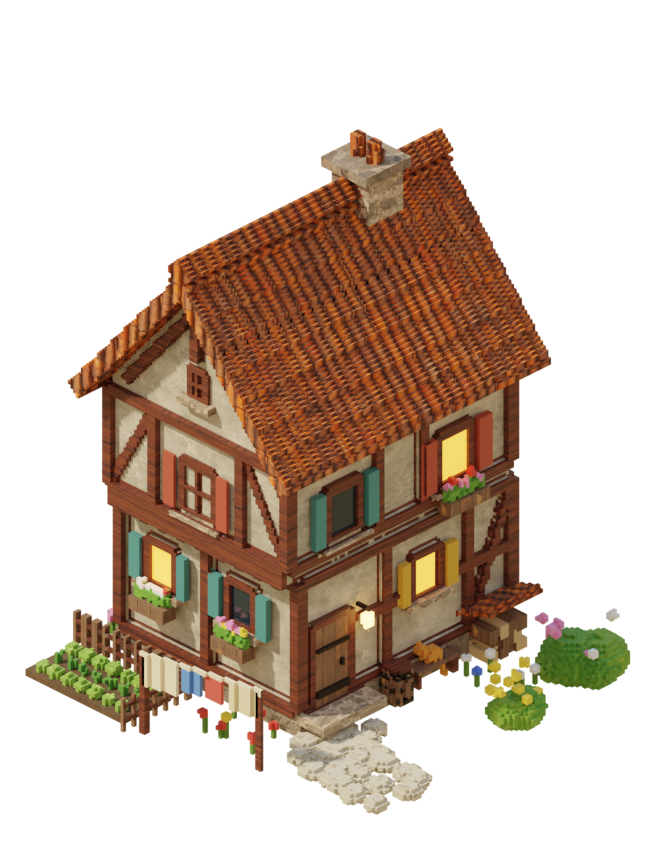
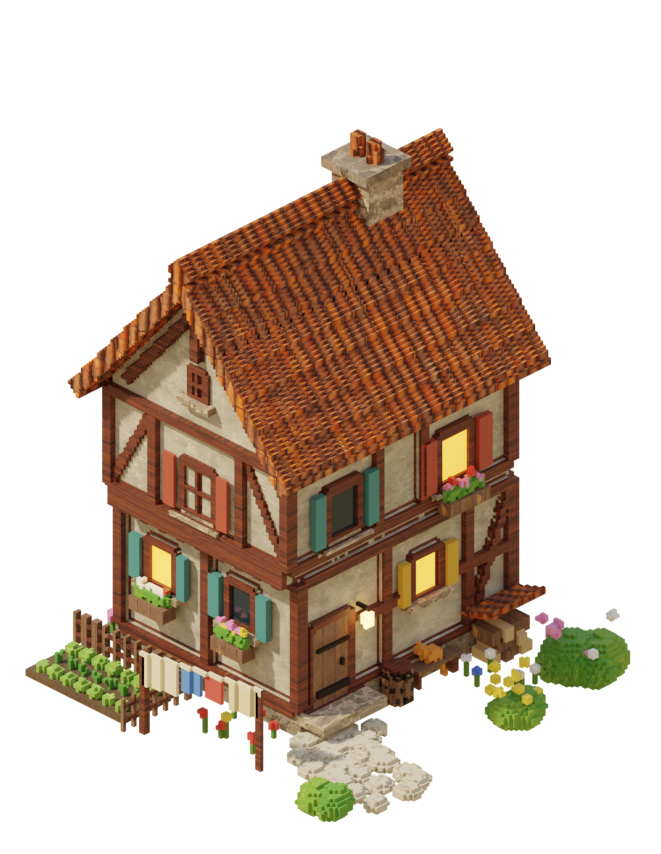
Model footprint wins over the DB; props unclipped; stronger motion
- BuildingDef.fromDefRow takes a rebuilt building's footprint from its
  model (kModelFootprint), not from the row: the live Small House row was
  still 3x3, which stretched the picture and — through the footprint guard —
  switched off its entrance marker and its animations. The migrations stay
  so the table itself is right too.
- tool/blender/audit.py: labels every part by the helper that made it and
  lists props standing in the house or in each other. Fixed: Small House
  bush in the back corner, woodpile in the plinth; Hatchery barrel in the
  east wall, four bushes in house/tower, a flower patch UNDER the house,
  hay bale in the tower plinth, sack on an egg, crate in an egg, two hens
  standing in nests, overlapping big eggs. Four-direction review renders
  checked: timber, windows and gables on every side.
- Motion strong enough to read at map size: washing 0.16 -> 0.50 shear,
  flowers/flower boxes 0.25, bushes 0.06, hens, sign and awning edge up.

Verified on the map: Small House is 2x2 with its entrance marker and road
cell; washing, flowers, hens and lights visibly move.

Changed region(s): [[0.6959, 0.6698, 0.8472, 0.7916], [0.4236, 0.9133, 0.5446, 0.9742]]

diff --git a/lib/features/settlement/data/building_model.dart b/lib/features/settlement/data/building_model.dart
@@ -124,16 +124,16 @@ bool _modelFits(String id, int w, int h) {
 
 /// The footprint (grid w, h) each model was rendered for.
 const Map<String, (int, int)> kModelFootprint = {
-  'hatchery': (4, 3),
   'small_house': (2, 2),
+  'hatchery': (4, 3),
 };
 
 const Map<String, BuildingEntrance> kBuildingEntrance = {
-  'hatchery': (2, 2, 0, 1),
   'small_house': (1, 1, 1, 0),
+  'hatchery': (2, 2, 0, 1),
 };
 
 const Map<String, BuildingAnimSpec> kBuildingAnim = {
-  'hatchery': BuildingAnimSpec(1.20837, true, [BuildingAnimLayer(AnimKind.sway, 0, 0, 41, 33, 0.40837, 0.58795, 0.04435, 0.02909, 0.42992, 0.60743, 0.1, 3.1, 2.78), BuildingAnimLayer(AnimKind.sway, 0, 35, 38, 34, 0.83682, 0.77147, 0.04017, 0.03047, 0.85562, 0.79175, 0.1, 3.1, 1.98), BuildingAnimLayer(AnimKind.sway, 0, 71, 35, 28, 0.41925, 0.80679, 0.03766, 0.02493, 0.43795, 0.823, 0.1, 3.1, 2.27), BuildingAnimLayer(AnimKind.sway, 0, 101, 34, 33, 0.68201, 0.8144, 0.03598, 0.02909, 0.70033, 0.83407, 0.1, 3.1, 1.65), BuildingAnimLayer(AnimKind.sway, 0, 136, 45, 38, 0.19833, 0.72922, 0.04854, 0.03324, 0.22376, 0.75776, 0.22, 1.5, 2), BuildingAnimLayer(AnimKind.sway, 0, 176, 23, 35, 0.20084, 0.75208, 0.02427, 0.03116, 0.21038, 0.78546, 0.22, 1.85, 2.04), BuildingAnimLayer(AnimKind.sway, 0, 213, 21, 41, 0.21172, 0.69529, 0.02259, 0.03601, 0.2251, 0.72951, 0.22, 2.2, 2.08), BuildingAnimLayer(AnimKind.sway, 0, 256, 44, 45, 0.06109, 0.71814, 0.04686, 0.04017, 0.08053, 0.74502, 0.12, 3.4, 4.2), BuildingAnimLayer(AnimKind.sway, 0, 303, 49, 47, 0.26276, 0.81856, 0.05272, 0.04155, 0.29739, 0.84362, 0.12, 3.4, 4.7), BuildingAnimLayer(AnimKind.sway, 0, 352, 25, 45, 0.61757, 0.90582, 0.02678, 0.04017, 0.616, 0.93335, 0.12, 3.4, 3.66), BuildingAnimLayer(AnimKind.sway, 0, 399, 48, 49, 0.09874, 0.74723, 0.05105, 0.04294, 0.12738, 0.77548, 0.12, 3.4, 3.48), BuildingAnimLayer(AnimKind.sway, 0, 450, 34, 50, 0.38828, 0.74723, 0.03598, 0.04432, 0.40582, 0.74853, 0.07, 3, 4.46), BuildingAnimLayer(AnimKind.bob, 0, 502, 68, 41, 0.29121, 0.7133, 0.0728, 0.03601, 0.31479, 0.74891, 0.008, 3.6, 0.62), BuildingAnimLayer(AnimKind.bob, 0, 545, 85, 67, 0.27364, 0.72022, 0.09038, 0.05956, 0.31479, 0.74891, 0.008, 4.9, 0.68), BuildingAnimLayer(AnimKind.sway, 0, 614, 87, 73, 0.83682, 0.78532, 0.09289, 0.0644, 0.87436, 0.83531, 0.035, 4.4, 1.67), BuildingAnimLayer(AnimKind.sway, 0, 689, 27, 35, 0.26946, 0.6205, 0.02845, 0.03116, 0.28802, 0.6647, 0.035, 4.4, 6.22), BuildingAnimLayer(AnimKind.sway, 0, 726, 80, 46, 0.33138, 0.67659, 0.08536, 0.04086, 0.39043, 0.70048, 0.1, 2.1, 4.87), BuildingAnimLayer(AnimKind.glow, 0, 774, 497, 340, 0.34142, 0.55263, 0.53138, 0.30055, 0.5, 0.5, 0.45, 6, 4.52), BuildingAnimLayer(AnimKind.flicker, 0, 1116, 74, 49, 0.45439, 0.80402, 0.0795, 0.04363, 0.5, 0.5, 0.7, 1, 4.49), BuildingAnimLayer(AnimKind.glow, 0, 1167, 50, 59, 0.2887, 0.74377, 0.05356, 0.05194, 0.5, 0.5, 0.6, 3.2, 1.2)]),
-  'small_house': BuildingAnimSpec(1.29198, true, [BuildingAnimLayer(AnimKind.sway, 0, 0, 37, 31, 0.19667, 0.67096, 0.0711, 0.04567, 0.2311, 0.7019, 0.1, 3.1, 2.76), BuildingAnimLayer(AnimKind.sway, 0, 33, 35, 33, 0.31619, 0.71663, 0.06808, 0.04918, 0.35209, 0.74872, 0.1, 3.1, 2.06), BuildingAnimLayer(AnimKind.sway, 0, 68, 39, 36, 0.66415, 0.53981, 0.07564, 0.05386, 0.70053, 0.57555, 0.1, 3.1, 6.11), BuildingAnimLayer(AnimKind.sway, 0, 106, 14, 22, 0.65658, 0.76347, 0.02723, 0.03279, 0.66454, 0.7682, 0.35, 1.9, 0.14), BuildingAnimLayer(AnimKind.sway, 0, 130, 70, 44, 0.29198, 0.82319, 0.13616, 0.06557, 0.36903, 0.85887, 0.12, 3.4, 3.68), BuildingAnimLayer(AnimKind.sway, 0, 176, 68, 38, 0.69138, 0.7541, 0.13162, 0.05621, 0.76586, 0.79894, 0.12, 3.4, 3.77), BuildingAnimLayer(AnimKind.sway, 0, 216, 15, 27, 0.15582, 0.70726, 0.02874, 0.03981, 0.19481, 0.73152, 0.12, 3.4, 3.8), BuildingAnimLayer(AnimKind.sway, 0, 245, 81, 70, 0.80333, 0.70726, 0.15582, 0.10539, 0.87233, 0.79145, 0.035, 4.4, 1.55), BuildingAnimLayer(AnimKind.sway, 0, 317, 56, 64, 0.72769, 0.76464, 0.10741, 0.09602, 0.77554, 0.84389, 0.035, 4.4, 0.63), BuildingAnimLayer(AnimKind.sway, 0, 383, 34, 37, 0.2118, 0.76581, 0.06505, 0.05504, 0.24448, 0.77314, 0.16, 2.4, 1.69), BuildingAnimLayer(AnimKind.sway, 0, 422, 23, 29, 0.26778, 0.77752, 0.04539, 0.04333, 0.29052, 0.78461, 0.16, 2.4, 0.5), BuildingAnimLayer(AnimKind.sway, 0, 453, 21, 29, 0.30408, 0.78689, 0.04085, 0.04333, 0.32505, 0.79321, 0.16, 2.4, 2.42), BuildingAnimLayer(AnimKind.sway, 0, 484, 27, 32, 0.34039, 0.79625, 0.05144, 0.04801, 0.36821, 0.80396, 0.16, 2.4, 1.14), BuildingAnimLayer(AnimKind.glow, 0, 518, 253, 135, 0.2239, 0.49883, 0.48865, 0.20141, 0.5, 0.5, 0.45, 6, 4.52), BuildingAnimLayer(AnimKind.flicker, 0, 655, 17, 20, 0.53858, 0.71077, 0.03328, 0.03044, 0.5, 0.5, 0.7, 1, 4.49)]),
+  'small_house': BuildingAnimSpec(1.29198, true, [BuildingAnimLayer(AnimKind.sway, 0, 0, 37, 31, 0.19667, 0.67096, 0.0711, 0.04567, 0.2311, 0.7019, 0.25, 3.1, 2.76), BuildingAnimLayer(AnimKind.sway, 0, 33, 35, 33, 0.31619, 0.71663, 0.06808, 0.04918, 0.35209, 0.74872, 0.25, 3.1, 2.06), BuildingAnimLayer(AnimKind.sway, 0, 68, 39, 36, 0.66415, 0.53981, 0.07564, 0.05386, 0.70053, 0.57555, 0.25, 3.1, 6.11), BuildingAnimLayer(AnimKind.sway, 0, 106, 14, 22, 0.65658, 0.76347, 0.02723, 0.03279, 0.66454, 0.7682, 0.6, 1.9, 0.14), BuildingAnimLayer(AnimKind.sway, 0, 130, 70, 44, 0.29198, 0.82319, 0.13616, 0.06557, 0.36903, 0.85887, 0.25, 3.4, 3.68), BuildingAnimLayer(AnimKind.sway, 0, 176, 68, 38, 0.69138, 0.7541, 0.13162, 0.05621, 0.76586, 0.79894, 0.25, 3.4, 3.77), BuildingAnimLayer(AnimKind.sway, 0, 216, 15, 27, 0.15582, 0.70726, 0.02874, 0.03981, 0.19481, 0.73152, 0.25, 3.4, 3.8), BuildingAnimLayer(AnimKind.sway, 0, 245, 81, 70, 0.80333, 0.70726, 0.15582, 0.10539, 0.87233, 0.79145, 0.06, 4.4, 1.55), BuildingAnimLayer(AnimKind.sway, 0, 317, 53, 41, 0.44024, 0.90515, 0.10287, 0.06206, 0.48518, 0.94877, 0.06, 4.4, 1.96), BuildingAnimLayer(AnimKind.sway, 0, 360, 56, 64, 0.72769, 0.76464, 0.10741, 0.09602, 0.77554, 0.84389, 0.06, 4.4, 0.63), BuildingAnimLayer(AnimKind.sway, 0, 426, 34, 37, 0.2118, 0.76581, 0.06505, 0.05504, 0.24448, 0.77314, 0.5, 2, 1.69), BuildingAnimLayer(AnimKind.sway, 0, 465, 23, 29, 0.26778, 0.77752, 0.04539, 0.04333, 0.29052, 0.78461, 0.5, 2, 0.5), BuildingAnimLayer(AnimKind.sway, 0, 496, 21, 29, 0.30408, 0.78689, 0.04085, 0.04333, 0.32505, 0.79321, 0.5, 2, 2.42), BuildingAnimLayer(AnimKind.sway, 0, 527, 27, 32, 0.34039, 0.79625, 0.05144, 0.04801, 0.36821, 0.80396, 0.5, 2, 1.14), BuildingAnimLayer(AnimKind.glow, 0, 561, 253, 135, 0.2239, 0.49883, 0.48865, 0.20141, 0.5, 0.5, 0.45, 6, 4.52), BuildingAnimLayer(AnimKind.flicker, 0, 698, 17, 20, 0.53858, 0.71077, 0.03328, 0.03044, 0.5, 0.5, 0.7, 1, 4.49)]),
+  'hatchery': BuildingAnimSpec(1.20837, true, [BuildingAnimLayer(AnimKind.sway, 0, 0, 41, 33, 0.40837, 0.58795, 0.04435, 0.02909, 0.42992, 0.60743, 0.25, 3.1, 2.78), BuildingAnimLayer(AnimKind.sway, 0, 35, 38, 34, 0.83682, 0.77147, 0.04017, 0.03047, 0.85562, 0.79175, 0.25, 3.1, 1.98), BuildingAnimLayer(AnimKind.sway, 0, 71, 35, 28, 0.41925, 0.80679, 0.03766, 0.02493, 0.43795, 0.823, 0.25, 3.1, 2.27), BuildingAnimLayer(AnimKind.sway, 0, 101, 34, 33, 0.68201, 0.8144, 0.03598, 0.02909, 0.70033, 0.83407, 0.25, 3.1, 1.65), BuildingAnimLayer(AnimKind.sway, 0, 136, 45, 38, 0.19833, 0.72922, 0.04854, 0.03324, 0.22376, 0.75776, 0.4, 1.5, 2), BuildingAnimLayer(AnimKind.sway, 0, 176, 27, 43, 0.21841, 0.77562, 0.02845, 0.03809, 0.2318, 0.80983, 0.4, 1.85, 2.04), BuildingAnimLayer(AnimKind.sway, 0, 221, 27, 42, 0.17657, 0.69114, 0.02845, 0.0374, 0.19164, 0.72452, 0.4, 2.2, 2.08), BuildingAnimLayer(AnimKind.sway, 0, 265, 48, 45, 0.04603, 0.72161, 0.05105, 0.04017, 0.06312, 0.7489, 0.25, 3.4, 4.64), BuildingAnimLayer(AnimKind.sway, 0, 312, 49, 47, 0.26276, 0.81856, 0.05272, 0.04155, 0.29739, 0.84362, 0.25, 3.4, 4.7), BuildingAnimLayer(AnimKind.sway, 0, 361, 74, 33, 0.09038, 0.75277, 0.0795, 0.02909, 0.12738, 0.77548, 0.25, 3.4, 3.48), BuildingAnimLayer(AnimKind.sway, 0, 396, 34, 50, 0.38828, 0.74723, 0.03598, 0.04432, 0.40582, 0.74853, 0.16, 3, 4.46), BuildingAnimLayer(AnimKind.bob, 0, 448, 68, 41, 0.29121, 0.7133, 0.0728, 0.03601, 0.31479, 0.74891, 0.008, 3.6, 0.62), BuildingAnimLayer(AnimKind.bob, 0, 491, 85, 67, 0.27364, 0.72022, 0.09038, 0.05956, 0.31479, 0.74891, 0.008, 4.9, 0.68), BuildingAnimLayer(AnimKind.sway, 0, 560, 80, 46, 0.33138, 0.67659, 0.08536, 0.04086, 0.39043, 0.70048, 0.3, 2.1, 4.87), BuildingAnimLayer(AnimKind.glow, 0, 608, 497, 340, 0.34142, 0.55263, 0.53138, 0.30055, 0.5, 0.5, 0.45, 6, 4.52), BuildingAnimLayer(AnimKind.flicker, 0, 950, 74, 49, 0.45439, 0.80402, 0.0795, 0.04363, 0.5, 0.5, 0.7, 1, 4.49), BuildingAnimLayer(AnimKind.glow, 0, 1001, 50, 59, 0.2887, 0.74377, 0.05356, 0.05194, 0.5, 0.5, 0.6, 3.2, 1.2)]),
 };

diff --git a/lib/features/settlement/data/building_definitions.dart b/lib/features/settlement/data/building_definitions.dart
@@ -5,6 +5,7 @@ import 'package:flutter/material.dart';
 import '../../../core/tuning/game_tuning.dart';
 import '../../creatures/models/creature_enums.dart' show CreatureStat;
 import 'building_effects.dart';
+import 'building_model.dart' show kModelFootprint;
 import '../../creatures/models/path_node.dart' show pathBuildingUnlockBattle;
 import 'goods_definitions.dart';
 
@@ -1389,8 +1390,12 @@ class BuildingDef {
       artAnchorX: (row['art_anchor_x'] as num?)?.toDouble() ?? 0.5,
       artLift: (row['art_lift'] as num?)?.toDouble() ?? 0.0,
       color: Color(int.parse(row['color'] as String? ?? 'FF7C5CBF', radix: 16)),
-      gridW: (row['grid_w'] as num).toInt(),
-      gridH: (row['grid_h'] as num).toInt(),
+      // A REBUILT building's footprint is its model's (user 2026-11-03: the
+      // live Small House row was still 3x3 for a 2x2 model, so its picture
+      // was stretched and its entrance and moving parts were switched off).
+      // The picture is rendered for exactly that ground; no row can change it.
+      gridW: kModelFootprint[row['id']]?.$1 ?? (row['grid_w'] as num).toInt(),
+      gridH: kModelFootprint[row['id']]?.$2 ?? (row['grid_h'] as num).toInt(),
       resourceCost: {
         for (final e in ((row['resource_cost'] as Map?) ?? const {}).entries)
           e.key as String: (e.value as num).toDouble(),
@@ -2450,8 +2455,8 @@ const Map<String, (double, double)> kChimneyAnchor = {
   'caravanserai': (0.116, 0.653),
   'church': (0.127, 0.726),
   'refinery_e2': (0.231, 0.732),
-  'hatchery': (0.548, 0.371),
   'small_house': (0.555, 0.134),
+  'hatchery': (0.548, 0.371),
 };
 
 const Map<String, int> kBuildingUnlockBattle = {

diff --git a/test/building_model_test.dart b/test/building_model_test.dart
@@ -86,6 +86,18 @@ void main() {
       }
     });
 
+    test('a database row cannot give a rebuilt building another footprint',
+        () {
+      // The live Small House row was still 3x3 on 2026-11-03.
+      final row = kFallbackBuildingDefs['small_house']!.toDefRow()
+        ..['grid_w'] = 3
+        ..['grid_h'] = 3;
+      final def = BuildingDef.fromDefRow(row);
+      expect((def.gridW, def.gridH), kModelFootprint['small_house']);
+      expect(entranceFor(def.id, def.gridW, def.gridH), isNotNull);
+      expect(animFor(def.id, def.gridW, def.gridH), isNotNull);
+    });
+
     test('a database row with an old footprint gets neither entrance nor '
         'moving parts', () {
       // The live Small House row was still 3x3 on 2026-11-03.

diff --git a/tool/blender/buildings/hatchery.py b/tool/blender/buildings/hatchery.py
@@ -310,7 +310,7 @@ def build():
          M['awning'], bevel=0.006)
     # the scalloped edge flutters
     with anim('awning_edge', 'sway', pivot=(-0.525, -0.31, G + 0.465),
-              amp=0.10, period=2.1):
+              amp=0.30, period=2.1):
         for i in range(10):
             rbox((-0.93 + 0.0 + i * 0.09 + 0.045, -0.31, G + 0.44),
                  (0.085, 0.012, 0.045), (tilt, 0, 0), M['awning'], bevel=0.004)
@@ -359,14 +359,14 @@ def build():
     nest(M, 0.02, -0.82, 0.15, ('gold', 'brown'), 3)
     nest(M, -1.72, -1.0, 0.16, ('violet', 'cream'), 4)
     # a clutch of big eggs, wing corner
-    egg(M, 'cream', 1.50, -1.33, G, 0.11)
-    egg(M, 'gold', 1.74, -1.28, G, 0.09, tilt=0.2)
-    egg(M, 'blue', 1.92, -1.16, G, 0.10, tilt=-0.2)
+    egg(M, 'cream', 1.50, -1.38, G, 0.11)
+    egg(M, 'gold', 1.73, -1.40, G, 0.09, tilt=0.2)
+    egg(M, 'blue', 1.93, -1.34, G, 0.10, tilt=-0.2)
 
     # hay, coop, hens ---------------------------------------
     hay_bale(M, -1.62, -0.18, G, 0.34, 0.24, 0.2, 0.3)
     hay_bale(M, -1.55, -0.2, G + 0.2, 0.3, 0.22, 0.18, -0.1)
-    hay_bale(M, -1.30, 0.04, G, 0.3, 0.2, 0.18, 0.1)
+    hay_bale(M, -1.22, -0.08, G, 0.3, 0.2, 0.18, 0.1)   # clear of the tower
     hay_scatter(M, -1.35, -0.2, 0.45, 70, 9)
     hay_scatter(M, -0.5, -0.5, 0.7, 60, 10)
     # coop
@@ -380,9 +380,9 @@ def build():
     beam((cx + 0.28, cy - 0.05, G), (cx + 0.09, cy - 0.12, G + 0.07), 0.04, M['planks'])
     # the hens peck: each one leans about its feet, at its own pace
     for i, (hx, hy, rot, key) in enumerate(((-1.20, -0.88, 0.5, 'hen_w'),
-                                            (-1.0, -1.18, 2.6, 'hen_r'),
-                                            (-1.45, -0.62, -0.7, 'hen_r'))):
-        with anim(f'hen{i}', 'sway', pivot=(hx, hy, G), amp=0.22,
+                                            (-0.70, -1.32, 2.6, 'hen_r'),
+                                            (-1.62, -0.70, -0.7, 'hen_r'))):
+        with anim(f'hen{i}', 'sway', pivot=(hx, hy, G), amp=0.40,
                   period=1.5 + 0.35 * i):
             hen(M, hx, hy, rot, key)
 
@@ -390,33 +390,30 @@ def build():
     # (the two barrels moved off the entrance path to the back wall)
     barrel(M, 0.40, 1.40)
     barrel(M, 0.56, 1.41, 0.075, 0.17)
-    sack(M, 1.45, -1.33, 1.0, 0.2)
-    sack(M, 1.38, -1.40, 0.9, -0.3, 'sack')
+    sack(M, 1.30, -1.42, 0.85, 0.2)              # off the big eggs
     crate(M, 1.95, -0.7, 0.14, 0.3)
     crate(M, 1.97, -0.55, 0.12, -0.2)
     sack(M, 1.92, -0.05, 1.0)
-    barrel(M, 1.9, 0.5)
-    crate(M, 1.78, -1.4, 0.12, 0.1)
+    barrel(M, 1.90, -0.25)                       # was inside the east wall
 
     # bushes, flowers -----------------------------------------
-    bush(M, 1.93, 0.85, 0.2, 1, ['fl_white', 'fl_pink'])
-    bush(M, -0.2, 1.42, 0.2, 2)
-    bush(M, 1.0, 1.42, 0.18, 3, ['fl_yel'])
-    bush(M, -1.8, 0.2, 0.17, 4, ['fl_red'])
+    # bushes only where there is room: the house stands 0.2 tiles from the
+    # north edge and 0.08 from the east one
+    bush(M, -1.20, 1.30, 0.15, 2, ['fl_white', 'fl_pink'])
+    bush(M, -1.85, 1.22, 0.14, 4, ['fl_red'])
     # flower patches (each sways on its own — fw_kit.flower_patch)
-    for k, (cx, cy, n, cols) in enumerate(((-1.85, -1.3, 8, ['fl_white', 'fl_pink']),
+    for k, (cx, cy, n, cols) in enumerate(((-1.88, -1.40, 8, ['fl_white', 'fl_pink']),
                                            (-0.15, -1.38, 6, ['fl_red', 'fl_yel']),
-                                           (-0.9, 0.35, 7, ['fl_blue', 'fl_white']),
-                                           (1.85, -1.0, 6, ['fl_blue', 'fl_pink']),
                                            (-1.4, -1.4, 5, ['fl_yel']),
-                                           (1.40, 1.42, 6, ['fl_pink', 'fl_white']))):
+                                           (0.95, 1.42, 6, ['fl_pink', 'fl_white']),
+                                           (1.40, 1.42, 6, ['fl_yel', 'fl_white']))):
         flower_patch(M, cx, cy, n, cols, 21 + k)
     # hanging sign (golden egg) on the wing's south-west corner — it swings
     # from its bracket — and lanterns at the wing's door ------------------
     sy_ = wy0 - 0.02
     beam((0.60, sy_, G + 0.86), (0.36, sy_, G + 0.86), 0.03, M['timber'])
     beam((0.60, sy_, G + 0.70), (0.44, sy_, G + 0.84), 0.022, M['timber'])
-    with anim('sign', 'sway', pivot=(0.45, sy_, G + 0.86), amp=0.07,
+    with anim('sign', 'sway', pivot=(0.45, sy_, G + 0.86), amp=0.16,
               period=3.0):
         for dx in (0.40, 0.50):
             beam((dx, sy_, G + 0.86), (dx, sy_, G + 0.78), 0.006, M['iron'],

diff --git a/tool/blender/audit.py b/tool/blender/audit.py
@@ -1,0 +1,136 @@
+"""Collision audit for one Fachwerk building: what stands inside what.
+
+    blender --background --python tool/blender/audit.py -- <id>
+
+Every object is labelled with the helper that made it (barrel#3, bench#1,
+window#7, ...; the walls and plinths built directly in build() are 'body').
+Then two lists are printed:
+
+  PROP IN BODY   a yard prop whose box reaches more than a voxel into the
+                 house's own volume (a barrel standing in a wall)
+  PROP IN PROP   two different props overlapping (a sack inside a crate)
+
+Boxes are world-space bounds of the actual vertices, so a rotated part is a
+little generous; every hit is a place to LOOK at, not a verdict.
+"""
+import importlib
+import itertools
+import os
+import sys
+
+import bpy
+
+HERE = os.path.dirname(os.path.abspath(__file__))
+sys.path.insert(0, HERE)
+import fw_kit  # noqa: E402
+import pro_kit as K  # noqa: E402
+import render_building as rb  # noqa: E402
+
+PROPS = {'barrel', 'sack', 'crate', 'bush', 'hay_bale', 'nest', 'egg', 'hen',
+         'bench', 'woodpile', 'cat', 'washing_line', 'fence', 'veg_bed',
+         'flower_patch', 'lantern', 'cobble_path', 'hay_scatter'}
+WRAP = PROPS | {'window', 'door', 'wall_frame', 'gable_wall', 'gable_roof',
+                'chimney', 'hanging_sign'}
+
+_stack = []
+_count = {}
+
+
+def wrap(mod, name):
+    fn = getattr(mod, name, None)
+    if fn is None or getattr(fn, '_audited', False):
+        return
+
+    def w(*a, **k):
+        if _stack:
+            return fn(*a, **k)
+        _count[name] = _count.get(name, 0) + 1
+        label = f'{name}#{_count[name]}'
+        _stack.append(label)
+        before = set(bpy.data.objects)
+        try:
+            return fn(*a, **k)
+        finally:
+            _stack.pop()
+            for o in bpy.data.objects:
+                if o not in before:
+                    o['part'] = label
+    w._audited = True
+    setattr(mod, name, w)
+
+
+def bounds(o):
+    mw = o.matrix_world
+    vs = [mw @ v.co for v in o.data.vertices]
+    return ([min(v[i] for v in vs) for i in range(3)],
+            [max(v[i] for v in vs) for i in range(3)])
+
+
+def overlap(a, b):
+    return [max(0.0, min(a[1][i], b[1][i]) - max(a[0][i], b[0][i])) for i in range(3)]
+
+
+def main():
+    bid = sys.argv[sys.argv.index('--') + 1:][0]
+    mod = importlib.import_module('buildings.' + bid)
+    for name in WRAP:
+        wrap(fw_kit, name)
+        wrap(mod, name)
+    rb.clear()
+    K._mats.clear()
+    fw_kit.reset_anims()
+    mod.build()
+    bpy.context.view_layer.update()
+    V = fw_kit.VOX
+    objs = [o for o in bpy.data.objects if o.type == 'MESH' and o.data.vertices]
+    body = [o for o in objs if 'part' not in o.keys()
+            and o.data.materials and o.data.materials[0].name in
+            ('plaster', 'stone', 'stone_dk')]
+    props = {}
+    for o in objs:
+        p = o.get('part', '')
+        if p.split('#')[0] in PROPS:
+            props.setdefault(p, []).append(o)
+    pb = {p: [bounds(o) for o in obs] for p, obs in props.items()}
+    bb = [(o, bounds(o)) for o in body]
+
+    print('== PROP IN BODY')
+    for p, boxes in sorted(pb.items()):
+        if p.startswith(('cobble_path', 'lantern', 'hay_scatter')):
+            continue
+        worst = 0.0
+        for b in boxes:
+            for o, ob in bb:
+                ov = overlap(b, ob)
+                worst = max(worst, min(ov))
+        if worst > V:
+            print(f'  {p:22s} reaches {worst / V:4.1f} voxels into the house')
+
+    print('== PROP IN PROP')
+    keys = sorted(pb)
+    for a, b in itertools.combinations(keys, 2):
+        if a.split('#')[0] == 'cobble_path' or b.split('#')[0] == 'cobble_path':
+            continue
+        worst = 0.0
+        for x in pb[a]:
+            for y in pb[b]:
+                worst = max(worst, min(overlap(x, y)))
+        if worst > V:
+            print(f'  {a:22s} x {b:22s} {worst / V:4.1f} voxels')
+
+    print('== PATH ON PROP')
+    paths = [k for k in keys if k.startswith('cobble_path')]
+    for pth in paths:
+        for k in keys:
+            if k.startswith(('cobble_path', 'fence', 'veg_bed', 'flower_patch',
+                             'washing_line', 'hay_scatter')):
+                continue
+            worst = 0.0
+            for x in pb[pth]:
+                for y in pb[k]:
+                    worst = max(worst, min(overlap(x, y)[:2]))
+            if worst > 2 * V:
+                print(f'  {k:22s} stands on the path ({worst / V:.1f} vox)')
+
+
+main()

diff --git a/tool/blender/buildings/small_house.py b/tool/blender/buildings/small_house.py
@@ -117,8 +117,8 @@ def washing_line(M, a, b, h=0.40):
     for w, hh, key in items:
         c = top_a + d * (t + w / 2 / d.length)
         # each piece swings on its own from where it is pegged
-        with anim(f'wash_{key}', 'sway', pivot=(c.x, c.y, c.z), amp=0.16,
-                  period=2.4):
+        with anim(f'wash_{key}', 'sway', pivot=(c.x, c.y, c.z), amp=0.50,
+                  period=2.0):
             rbox((c.x, c.y, c.z - hh / 2 - 0.006), (w, 0.012, hh), (0, 0, rot),
                  M[key], bevel=0.003)
         t += (w + 0.03) / d.length
@@ -154,7 +154,7 @@ def cat(M, x, y, z, rot=0.0):
         ellipsoid(ex, ey, z + 0.09, 0.008, 0.008, 0.014, M['cat'], seg=6,
                   rings=4)
     # the tail hangs over the bench's edge and flicks
-    with anim('cat_tail', 'sway', pivot=at(-0.04, 0.012), amp=0.35, period=1.9):
+    with anim('cat_tail', 'sway', pivot=at(-0.04, 0.012), amp=0.6, period=1.9):
         beam(at(-0.04, 0.012), at(-0.07, -0.085), 0.02, M['cat'], bevel=0)
 
 
@@ -258,7 +258,7 @@ def build():
     cobble_path(M, [(X1 + 0.10, YD), (0.56, ey), (ex - 0.02, ey)], seed=4)
     bench(M, X1 + 0.07, 0.18, 0.46)
     cat(M, X1 + 0.07, 0.30, G + m(0.45) + 0.01, rot=math.radians(-110))
-    woodpile(M, X1 + 0.09, 0.58, 0.84)
+    woodpile(M, X1 + 0.115, 0.58, 0.84)
     barrel(M, X1 + 0.09, 0.07, r=0.07, h=0.17)           # rain butt
 
     veg_bed(M, -0.92, -0.32, -0.94, -0.64)
@@ -266,7 +266,7 @@ def build():
     washing_line(M, (-0.20, -0.93), (0.40, -0.80))   # clear of the entrance path
 
     bush(M, 0.80, 0.78, 0.17, 1, ['fl_white', 'fl_pink'])
-    bush(M, -0.92, 0.92, 0.14, 2)
+    bush(M, 0.84, -0.86, 0.11, 2)                # front corner, clear of the path
     bush(M, 0.88, 0.30, 0.12, 3, ['fl_yel'])
     flower_patch(M, 0.12, -0.62, 7, ['fl_red', 'fl_yel'], 5)
     flower_patch(M, 0.62, 0.52, 6, ['fl_blue', 'fl_white'], 6)

diff --git a/tool/blender/fw_kit.py b/tool/blender/fw_kit.py
@@ -588,17 +588,17 @@ def entrance_grid(W, H, face, k):
 def flowers(face, fixed, a, z, w, cols):
     p = P(face, fixed, a, z, 0.07)
     with anim(f'box_{face}{fixed:+.2f}{a:+.2f}{z:.2f}', 'sway',
-              pivot=(p.x, p.y, z), amp=0.10, period=3.1):
+              pivot=(p.x, p.y, z), amp=0.25, period=3.1):
         _flowers(face, fixed, a, z, w, cols)
 
 
 def bush(M, x, y, r=0.22, seed=0, flowers_cols=None):
-    with anim(f'bush{x:+.2f}{y:+.2f}', 'sway', pivot=(x, y, G), amp=0.035,
+    with anim(f'bush{x:+.2f}{y:+.2f}', 'sway', pivot=(x, y, G), amp=0.06,
               period=4.4):
         _bush(M, x, y, r, seed, flowers_cols)
 
 
 def flower_patch(M, cx, cy, n, cols, seed, rx=0.18, ry=0.12):
     with anim(f'patch{cx:+.2f}{cy:+.2f}', 'sway', pivot=(cx, cy, G),
-              amp=0.12, period=3.4):
+              amp=0.25, period=3.4):
         _flower_patch(M, cx, cy, n, cols, seed, rx, ry)
